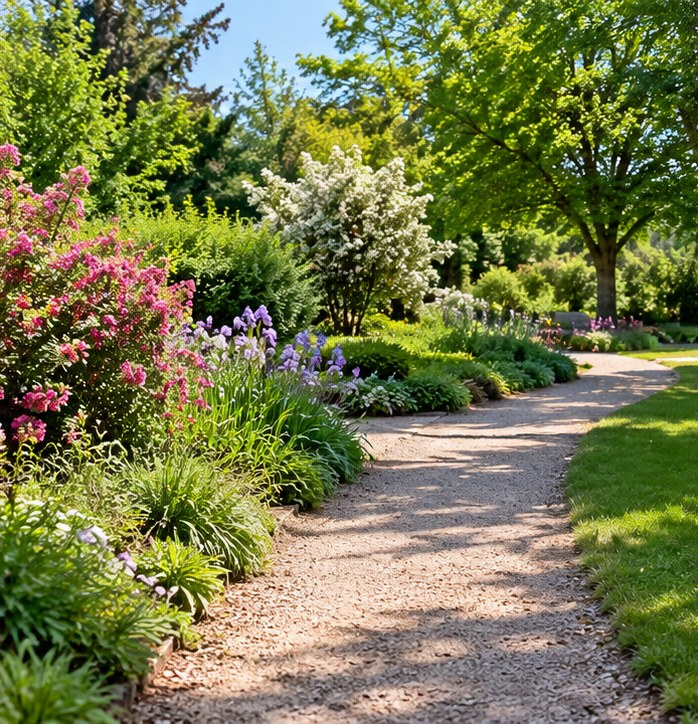
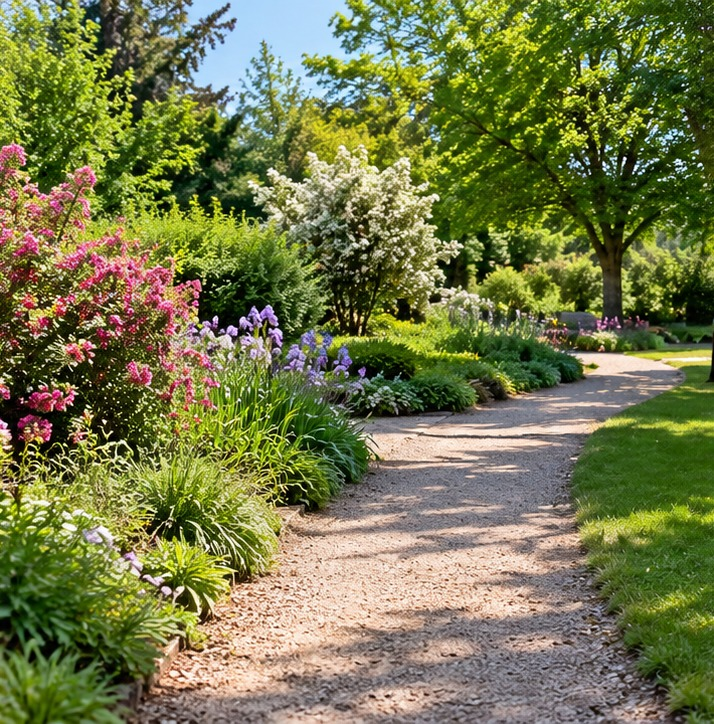
Sciences séance 4 : corriger les images et supprimer les liens externes

diff --git a/js/sciences-exercices.js b/js/sciences-exercices.js
@@ -71,14 +71,14 @@
     ]},
     {id:4,title:"Séance 4",short:"Déchets et biodiversité",emoji:"♻",objective:"Je sais trier les déchets et protéger la biodiversité.",criteria:["Classer six déchets","Comprendre le recyclage","Protéger les êtres vivants et leurs habitats"],exos:[
       {type:"sort",title:"1. Je trie les déchets",instr:"Touche un déchet puis choisis la bonne catégorie.",items:[
-        {label:"une bouteille en verre",image:"https://commons.wikimedia.org/wiki/Special:FilePath/Glass%20bottles.jpg?width=480"},
-        {label:"une boîte en carton",image:"https://commons.wikimedia.org/wiki/Special:FilePath/Cardboard%20boxes.jpg?width=480"},
-        {label:"une peau de banane",image:"https://commons.wikimedia.org/wiki/Special:FilePath/Banana%20peel.jpg?width=480"},
-        {label:"une canette",image:"https://commons.wikimedia.org/wiki/Special:FilePath/Aluminium%20can.jpg?width=480"},
-        {label:"un journal",image:"https://commons.wikimedia.org/wiki/Special:FilePath/Newspapers.jpg?width=480"},
-        {label:"un trognon de pomme",image:"https://commons.wikimedia.org/wiki/Special:FilePath/Apple%20core.jpg?width=480"}
+        {label:"une bouteille en verre",image:"images-lecons/sciences/seance4/bouteille-verre.jpg"},
+        {label:"une boîte en carton",image:"images-lecons/sciences/seance4/boite-carton.jpg"},
+        {label:"une peau de banane",image:"images-lecons/sciences/seance4/peau-banane.jpg"},
+        {label:"une canette",image:"images-lecons/sciences/seance4/canette.jpg"},
+        {label:"un journal",image:"images-lecons/sciences/seance4/journal.jpg"},
+        {label:"un trognon de pomme",image:"images-lecons/sciences/seance4/trognon-pomme.jpg"}
       ],zones:["Emballages et papiers","Verre","Biodéchets"],zoneIcons:["♻","🍾","🍂"],zoneColors:["#FCEFC0","#CDE9D8","#E4D3B8"],help:[{icon:"🟡",text:"Emballages et papiers : carton, canette, journal."},{icon:"🟢",text:"Verre : bouteilles et bocaux."},{icon:"🟤",text:"Biodéchets : épluchures et restes de fruits."}],correct:[1,0,2,0,0,2]},
-      {type:"choice",title:"2. Que devient un déchet ?",instr:"Une bouteille en plastique a été collectée pour être recyclée. Que peut-on fabriquer ?",photos:[{src:"https://commons.wikimedia.org/wiki/Special:FilePath/Plastic%20bottles.jpg?width=480",label:"Des bouteilles en plastique à recycler"}],options:["Un nouvel objet en plastique.","Une pierre naturelle.","Une nouvelle graine."],correct:0,retry:true,hint:"Le recyclage permet de réutiliser la matière d'un déchet.",explanation:"Certains plastiques peuvent être transformés en nouvelles matières et en nouveaux objets."},
+      {type:"choice",title:"2. Que devient un déchet ?",instr:"Une bouteille en plastique a été collectée pour être recyclée. Que peut-on fabriquer ?",photos:[{src:"images-lecons/sciences/seance4/bouteilles-plastique.jpg",label:"Des bouteilles en plastique à recycler"}],options:["Un nouvel objet en plastique.","Une pierre naturelle.","Une nouvelle graine."],correct:0,retry:true,hint:"Le recyclage permet de réutiliser la matière d'un déchet.",explanation:"Certains plastiques peuvent être transformés en nouvelles matières et en nouveaux objets."},
       {type:"choice",title:"3. À quoi servent les abeilles ?",instr:"Observe cette abeille sur une fleur. Pourquoi est-elle utile à beaucoup de plantes ?",photos:[{src:"images-lecons/sciences/seance4/abeille-fleur.jpg",label:"Une abeille visite une fleur"}],options:["Elle transporte du pollen de fleur en fleur.","Elle fabrique les feuilles des plantes.","Elle arrose les fleurs."],correct:0,retry:true,hint:"Quand elle visite plusieurs fleurs, de petits grains s'accrochent à elle.",explanation:"Les abeilles transportent du pollen. Elles aident ainsi de nombreuses plantes à produire des graines."},
       {type:"choice",title:"4. Je protège la nature",instr:"Dans un parc, quel geste protège les animaux et les plantes ?",photos:[{src:"images-lecons/sciences/seance4/jardin-protege.jpg",label:"Un jardin accueille de nombreux êtres vivants"}],options:["Rester sur le chemin et emporter ses déchets.","Enlever toutes les fleurs sauvages pour faire de la place.","Déplacer un nid pour mieux observer les oiseaux."],correct:0,retry:true,hint:"Pense à ce dont les petits animaux ont besoin pour vivre tranquilles.",explanation:"Emporter ses déchets et respecter les habitats aide à protéger les êtres vivants."},
       {type:"choice",title:"5. Le défi de Maître Hibou",instr:"On retire tous les buissons et les feuilles mortes d'un jardin. Que risque-t-il de se passer ?",photos:[{src:"images-lecons/sciences/seance4/herisson-abri.jpg",label:"Un hérisson et d'autres animaux vivent au jardin"}],options:["Des petits animaux perdent leurs abris.","Les hérissons trouvent forcément plus de nourriture.","Tous les animaux viennent habiter dans ce jardin."],correct:0,retry:true,hint:"À quoi servent les feuilles et les buissons pour un hérisson ?",explanation:"Les buissons et les feuilles mortes peuvent abriter des petits animaux. Préserver ces endroits aide à protéger la biodiversité."}

diff --git a/js/sciences-affichage.js b/js/sciences-affichage.js
@@ -42,6 +42,9 @@ var SCIENCE_SESSIONS=window.MHScienceSessions;
     s.exos.forEach(function(exo){
       var card = document.createElement('section');
       card.className = 'v24-english-exo';
+      if(s.id === 4 && exo.photos && exo.photos.length === 1){
+        card.classList.add('mh-science-s4-wide-photo');
+      }
       card.innerHTML = '<h3>'+esc(exo.title)+'</h3><p>'+esc(exo.instr)+'</p>';
       if(exo.type === 'choice') renderScienceChoice(card, exo);
       if(exo.type === 'match') renderScienceMatch(card, exo);
@@ -303,6 +306,17 @@ var SCIENCE_SESSIONS=window.MHScienceSessions;
       var style=document.createElement('style'); style.id='mh-science-s2-image-styles';
       style.textContent='.mh-science-photos{display:flex;flex-wrap:wrap;gap:12px;margin:12px 0}.mh-science-photos figure{flex:1 1 180px;max-width:330px;min-width:0;margin:0;border:2px solid #d3ead7;border-radius:12px;overflow:hidden;background:#fff;text-align:center}.mh-science-photos img{display:block;width:100%;height:155px;object-fit:contain;background:#f6f9f7}.mh-science-photos figcaption{padding:8px;font-weight:850;font-size:14px}.mh-science-photo-step{display:flex!important;flex-direction:column!important;width:160px;min-height:155px;padding:7px!important;gap:5px!important}.mh-science-photo-step img{width:100%;height:100px;object-fit:contain;border-radius:8px;background:#fff}.mh-science-photo-step span{font-size:13px;line-height:1.2}.mh-science-photo-step.selected{outline:3px solid #2da85c}.mh-science-photo-list{display:flex;flex-wrap:wrap;gap:9px;margin:10px 0}.mh-science-photo-sequence{display:flex;flex-wrap:wrap;gap:7px;min-height:46px;margin:8px 0}.mh-science-photo-sequence button{padding:9px;border:2px solid #a9dbc0;border-radius:9px;background:#f1fff6;font-weight:800;cursor:pointer}@media(max-width:650px){.mh-science-photos img{height:120px}.mh-science-photo-step{width:130px;min-height:142px}.mh-science-photo-step img{height:85px}}';
       document.head.appendChild(style);
+    }
+    if(!document.getElementById('mh-science-s4-wide-photo-style')){
+      var wideStyle=document.createElement('style');
+      wideStyle.id='mh-science-s4-wide-photo-style';
+      wideStyle.textContent =
+        '.mh-science-s4-wide-photo .mh-science-photos{display:block;width:100%;margin:12px 0}' +
+        '.mh-science-s4-wide-photo .mh-science-photos figure{max-width:none;width:100%;margin:0}' +
+        '.mh-science-s4-wide-photo .mh-science-photos img{width:100%;height:clamp(200px,25vw,300px);object-fit:cover;object-position:center}' +
+        '.mh-science-s4-wide-photo .mh-science-photos figcaption{font-size:14px;padding:10px}' +
+        '@media(max-width:650px){.mh-science-s4-wide-photo .mh-science-photos img{height:220px}}';
+      document.head.appendChild(wideStyle);
     }
     var holder=document.createElement('div');holder.className='mh-science-photos';
     photos.forEach(function(photo){
